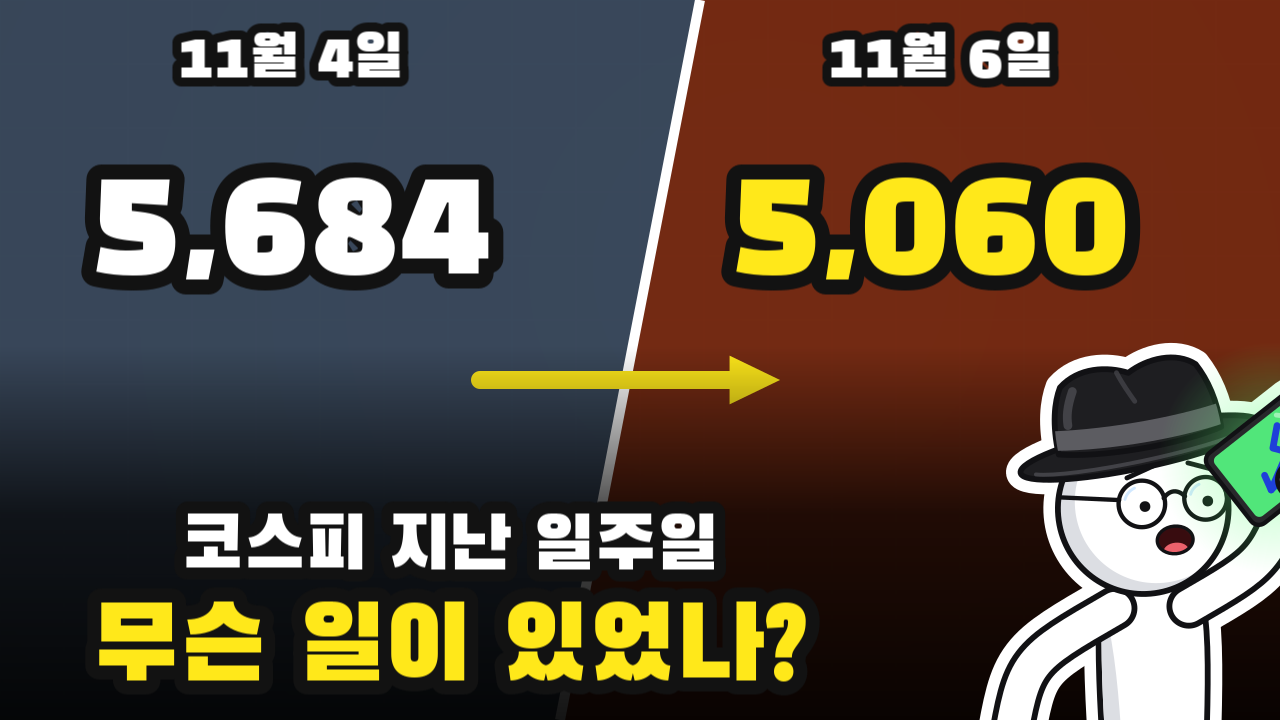
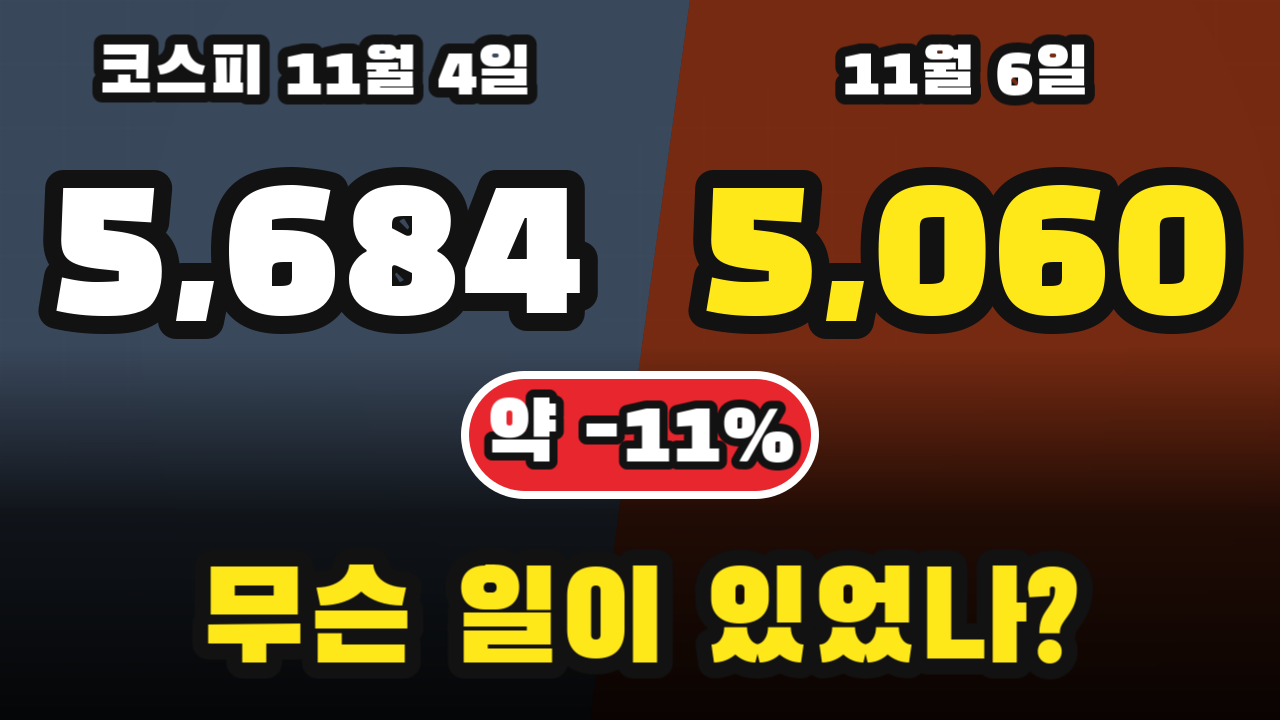
썸네일: 한눈에 들어오는 구도 3종(split2·duo·hero) 추가, EP.09 A/B/C 교체
Claude-Session: https://claude.ai/code/session_018P3HR8AJY533mJgVQn5u7Z

diff --git a/youtube/episodes/ep09_ai_chip_selloff/out/upload_ep09.html b/youtube/episodes/ep09_ai_chip_selloff/out/upload_ep09.html
@@ -8,7 +8,7 @@ h3{margin:18px 0 6px}.w{background:#fff3cd;color:#5a4500;padding:10px;border-rad
 <div class="w"><b>올리기 전 확인</b><br>⚠ 11/6 장중 저점 4,911.28(9개월 만에 5,000선 아래) ·  · 검색 요약(1건) —  원문 대조 안 함<br>⚠ 미국 11/5(현지): 반도체지수 -12.25%, 나스닥 -5.52%, S&amp;P500 -4.35%, 다우 -3.44%, 엔비디아 약 -9%, 마이크론 약 -17%, SK하이닉스 ADR -13% ·  · 복수 언론 보도(검색 요약, 매체별 반올림 차이) —  원문 1건씩 대조 안 함 / 다우·나스닥 수치는 11/6 지수와 역산해 정합성 확인<br>⚠ 11/2~6 외국인 약 10.4조 순매도, SK하이닉스 5.4조·삼성전자 2.2조(약 73%), SK하이닉스 주간 -20.17%(141.8만 → 113.2만), 개인 하이닉스 +2.2조·삼성 +1.9조 ·  · 노컷뉴스·산경투데이(검색 요약) —  원문 대조 안 함, 하이닉스 하락률은 직접 계산과 일치<br>⚠ 미국 중간선거: 민주당 상·하원 장악 보도, 일부 상원 박빙, AI·데이터센터 쟁점 분석은 해석이 엇갈림 ·  · CNBC 등(검색 요약) —  확정 의석 수는 영상에서 말하지 않음<br>⚠ 규제 법안 텍스트는 아직 없다는 보도, 키움증권 &#x27;패닉 셀링 성격&#x27; 평가, 네오클라우드 실적 경계 ·  · 뉴스핌 원문(키움·실적 경계) / 법안 텍스트는 검색 요약 — 일부<br>⚠ 설비투자가 현금흐름을 넘어섬, 상위 5개 기업 인프라 지출 6,000억 달러 이상(+36%) 전망, 6월 급락 때 시총 감소분 약 74%가 반도체 ·  · 증권사·언론 분석(검색 요약) —  분석가 주장으로만 표현, 직접 확인한 사실 아님<br>⚠ 올해 서킷브레이커마다 당국이 점검 회의, 10/15 과도한 빚투 자제 당부 ·  · 검색 요약 —  &quot;보도됐다&quot;로 완충<br>⚠ - 일부 보도 수치는 검색 요약 수준에서만 확인했습니다( 표시).<br>시장 숫자는 영상에 적힌 기준일 기준입니다. 올리는 시점에 달라졌다면 설명란 첫 줄에 기준일을 한 줄 더 적으세요.</div>
 <h3>A/B 테스트 세트 (제목 3안 + 짝 썸네일)</h3>
 <div class="dim">제목과 썸네일을 동시에 바꾸면 어느 쪽 효과인지 알 수 없으니 한 번에 하나씩 테스트하세요. 제목 테스트 메뉴가 스튜디오에 있는지는 확인하지 못했습니다.</div>
-<div class="ab"><b>A안</b><br><span class="dim">짝 썸네일 → 썸네일 A: split형 · slate · &quot;코스피 -6.02% 서킷브레이커&quot; / 무슨 일이 있었나?</span><textarea readonly rows="2">코스피 6% 하락, 서킷브레이커까지… 지난 일주일 무슨 일이 있었나? 초등학생도 이해하는 AI·반도체주 급락의 모든 것 (30분 총정리)</textarea><button onclick="cp2(this)">복사</button></div><div class="ab"><b>B안</b><br><span class="dim">짝 썸네일 → 썸네일 B: zoom형 · teal · &quot;반도체주 하락, 원인은 하나가 아니다&quot; / 선거와 관련 있을까?</span><textarea readonly rows="2">미국 중간선거와 반도체주 하락, 정말 관련 있을까? 초등학생도 이해하는 AI·반도체주 급락의 모든 것 (30분 총정리)</textarea><button onclick="cp2(this)">복사</button></div><div class="ab"><b>C안</b><br><span class="dim">짝 썸네일 → 썸네일 C: bignum형 · plum · &quot;판정하지 않습니다&quot; / 거품이란 뭘까?</span><textarea readonly rows="2">AI 거품이란 무엇일까? 초등학생도 이해하는 AI·반도체주 급락의 모든 것 (30분 총정리)</textarea><button onclick="cp2(this)">복사</button></div>
+<div class="ab"><b>A안</b><br><span class="dim">짝 썸네일 → 썸네일 A: split2형 · slate · &quot;&quot; / 무슨 일이 있었나?</span><textarea readonly rows="2">코스피 6% 하락, 서킷브레이커까지… 지난 일주일 무슨 일이 있었나? 초등학생도 이해하는 AI·반도체주 급락의 모든 것 (30분 총정리)</textarea><button onclick="cp2(this)">복사</button></div><div class="ab"><b>B안</b><br><span class="dim">짝 썸네일 → 썸네일 B: duo형 · teal · &quot;&quot; / 정말 관련 있을까?</span><textarea readonly rows="2">미국 중간선거와 반도체주 하락, 정말 관련 있을까? 초등학생도 이해하는 AI·반도체주 급락의 모든 것 (30분 총정리)</textarea><button onclick="cp2(this)">복사</button></div><div class="ab"><b>C안</b><br><span class="dim">짝 썸네일 → 썸네일 C: hero형 · plum · &quot;&quot; / 무엇일까?</span><textarea readonly rows="2">AI 거품이란 무엇일까? 초등학생도 이해하는 AI·반도체주 급락의 모든 것 (30분 총정리)</textarea><button onclick="cp2(this)">복사</button></div>
 <h3>설명 (챕터 포함) <button onclick="cp(this)">복사</button></h3><textarea readonly rows="18">※ 2026년 11월 8일(일) 기준으로 만든 영상입니다. 국내 시장은 11월 9일(월)에 다시 열리며, 월요일 이후 상황은 담지 않았습니다.
 지난 11월 6일 코스피는 6.02% 하락해 5,059.69로 마감했고 서킷브레이커가 발동됐습니다. 지난 일주일 동안 무슨 일이 있었는지 확인된 숫자로 정리하고, 보도된 원인 후보 5가지를 근거와 반론으로 나눠 살펴봅니다.
 거품이란 무엇인지, 급락기의 시장 심리와 용어, 그리고 내 돈의 빚·기간·비중을 점검하는 방법까지 다룹니다. 이 영상은 앞으로의 주가를 전망하지 않으며 매수·매도를 권하지 않습니다.

diff --git a/youtube/studio/thumbnail.py b/youtube/studio/thumbnail.py
@@ -150,7 +150,7 @@ PALETTES = {
     "forest": {"bg": ("#0F3B22", "#04120A"), "a": "#146B3A", "b": "#6A1020"},
     "slate":  {"bg": ("#2B3440", "#0B0E12"), "a": "#3B4A5E", "b": "#7A2A10"},
 }
-LAYOUTS = ("classic", "bignum", "split", "zoom", "banner")
+LAYOUTS = ("classic", "bignum", "split", "zoom", "banner", "duo", "hero", "split2")
 DEFAULT_LAYOUT = {"A": "classic", "B": "split", "C": "zoom"}
 
 
@@ -352,6 +352,109 @@ def _layout_banner(ctx, v, pal):
         text(ctx, l1, 380, 500, size=118, fname="title", color="#FFE81A", stroke=15, max_w=700)
 
 
+# ---------------------------------------------------------------- 한눈에 들어오는 구도 (메시지 1개 + 그림 1개)
+# 휴대폰 목록에서 썸네일은 손가락 한 마디 크기입니다. 글자 덩어리는 1~2개, 그림은 크게, 대비는 강하게.
+
+def _glow_disc(ctx, x, y, r, col, a=0.55):
+    g = cairo.RadialGradient(x, y, r * 0.2, x, y, r * 1.6)
+    rr, gg, bb = hexc(col)
+    g.add_color_stop_rgba(0, rr, gg, bb, a)
+    g.add_color_stop_rgba(1, rr, gg, bb, 0)
+    ctx.set_source(g)
+    ctx.new_path()
+    ctx.arc(x, y, r * 1.6, 0, math.tau)
+    ctx.fill()
+
+
+def _icon_badge(ctx, name, x, y, r, col):
+    from . import visuals  # noqa: F401 (순환 import 방지: visuals 먼저)
+    from .visuals2 import icon
+    _glow_disc(ctx, x, y, r, col, 0.45)
+    ctx.new_path()
+    ctx.arc(x, y, r, 0, math.tau)
+    ctx.set_source_rgb(1, 1, 1)
+    ctx.fill_preserve()
+    ctx.set_source_rgb(0.07, 0.07, 0.07)
+    ctx.set_line_width(12)
+    ctx.stroke()
+    icon(ctx, name, x, y, r / 62)
+
+
+def _layout_duo(ctx, v, pal):
+    """그림 A  →  ?  →  그림 B, 아래에 큰 질문 한 줄."""
+    _bg(ctx, *pal["bg"])
+    ics = v.get("icons") or ["vote", "chip"]
+    labels = v.get("labels") or ["", ""]
+    xs = (270, 1010)
+    for i, (nm, x) in enumerate(zip(ics, xs)):
+        _icon_badge(ctx, nm, x, 255, 175, pal["a"] if i == 0 else pal["b"])
+        if labels[i]:
+            text(ctx, labels[i], x, 485, size=76, fname="title", color="white", stroke=12, max_w=480)
+    ctx.set_dash([34, 22])
+    arrow(ctx, 470, 255, 820, 255, color="#FFE81A", width=16, head=52)
+    ctx.set_dash([])
+    text(ctx, v.get("mark", "?"), 640, 215, size=230, fname="title", color="#FFE81A", stroke=18)
+    text(ctx, v["main"], TW / 2, 625, size=v.get("main_size", 132), fname="title", color="#FFE81A", stroke=16, max_w=TW - 50)
+
+
+def _layout_hero(ctx, v, pal):
+    """큰 사물(거품 등) 하나 + 큰 단어 하나."""
+    _bg(ctx, *pal["bg"])
+    x, y, r = 360, 375, 290
+    _glow_disc(ctx, x, y, r, pal["a"], 0.5)
+    g = cairo.RadialGradient(x - r * 0.35, y - r * 0.35, r * 0.1, x, y, r)
+    g.add_color_stop_rgba(0, 1, 1, 1, 0.55)
+    g.add_color_stop_rgba(0.7, 0.55, 0.75, 1, 0.22)
+    g.add_color_stop_rgba(1, 0.55, 0.75, 1, 0.6)
+    ctx.new_path()
+    ctx.arc(x, y, r, 0, math.tau)
+    ctx.set_source(g)
+    ctx.fill_preserve()
+    ctx.set_source_rgba(1, 1, 1, 0.95)
+    ctx.set_line_width(12)
+    ctx.stroke()
+    ctx.new_path()
+    ctx.arc(x - r * 0.42, y - r * 0.42, r * 0.13, 0, math.tau)
+    ctx.set_source_rgba(1, 1, 1, 0.85)
+    ctx.fill()
+    from . import visuals  # noqa: F401 (순환 import 방지: visuals 먼저)
+    from .visuals2 import icon
+    icon(ctx, v.get("hero_icon", "chip"), x, y + 10, 2.6)
+    num = v.get("num", "?")
+    text(ctx, num, 960, 300, size=v.get("num_size", 250), fname="title", color="#FFE81A", stroke=20, max_w=600)
+    text(ctx, v["main"], 960, 545, size=v.get("main_size", 96), fname="title", color="white", stroke=14, max_w=600)
+
+
+def _layout_split2(ctx, v, pal):
+    """전/후 숫자 두 개를 아주 크게. 위 날짜, 가운데 변화율 배지, 아래 질문 한 줄."""
+    _bg(ctx, *pal["bg"])
+    ctx.new_path()
+    ctx.move_to(0, 0); ctx.line_to(690, 0); ctx.line_to(590, 720); ctx.line_to(0, 720); ctx.close_path()
+    ctx.set_source_rgba(*hexc(pal["a"]), 0.95)
+    ctx.fill()
+    ctx.new_path()
+    ctx.move_to(690, 0); ctx.line_to(1280, 0); ctx.line_to(1280, 720); ctx.line_to(590, 720); ctx.close_path()
+    ctx.set_source_rgba(*hexc(pal["b"]), 0.95)
+    ctx.fill()
+    labels = v.get("labels") or ["", ""]
+    left, right = v["tags"][0], v["tags"][1]
+    text(ctx, labels[0], 315, 75, size=66, fname="title", color="white", stroke=10)
+    text(ctx, labels[1], 965, 75, size=66, fname="title", color="white", stroke=10)
+    text(ctx, left, 315, 255, size=200, fname="title", color="white", stroke=18, max_w=560)
+    text(ctx, right, 965, 255, size=200, fname="title", color="#FFE81A", stroke=18, max_w=560)
+    _bottom_band(ctx)
+    if v.get("badge"):
+        ctx.new_path()
+        round_rect(ctx, 640 - 175, 375, 350, 120, 60)
+        ctx.set_source_rgb(*hexc("#E8262E"))
+        ctx.fill_preserve()
+        ctx.set_source_rgb(1, 1, 1)
+        ctx.set_line_width(8)
+        ctx.stroke()
+        text(ctx, v["badge"], 640, 437, size=84, fname="title", color="white", stroke=8)
+    text(ctx, v["main"], TW / 2, 625, size=v.get("main_size", 128), fname="title", color="#FFE81A", stroke=16, max_w=TW - 50)
+
+
 def make_thumbnail(path: str, variant: str = "A", overrides: dict | None = None):
     v = dict(VARIANTS.get(variant, VARIANTS["A"]))
     if overrides:
@@ -359,6 +462,7 @@ def make_thumbnail(path: str, variant: str = "A", overrides: dict | None = None)
     pal, lay = _pick(v, variant)
     surf = cairo.ImageSurface(cairo.FORMAT_ARGB32, TW, TH)
     ctx = cairo.Context(surf)
-    {"classic": _layout_classic, "bignum": _layout_bignum, "split": _layout_split, "zoom": _layout_zoom, "banner": _layout_banner}.get(lay, _layout_classic)(ctx, v, pal)
+    {"classic": _layout_classic, "bignum": _layout_bignum, "split": _layout_split, "zoom": _layout_zoom, "banner": _layout_banner,
+     "duo": _layout_duo, "hero": _layout_hero, "split2": _layout_split2}.get(lay, _layout_classic)(ctx, v, pal)
     surf.write_to_png(path)
     return path
